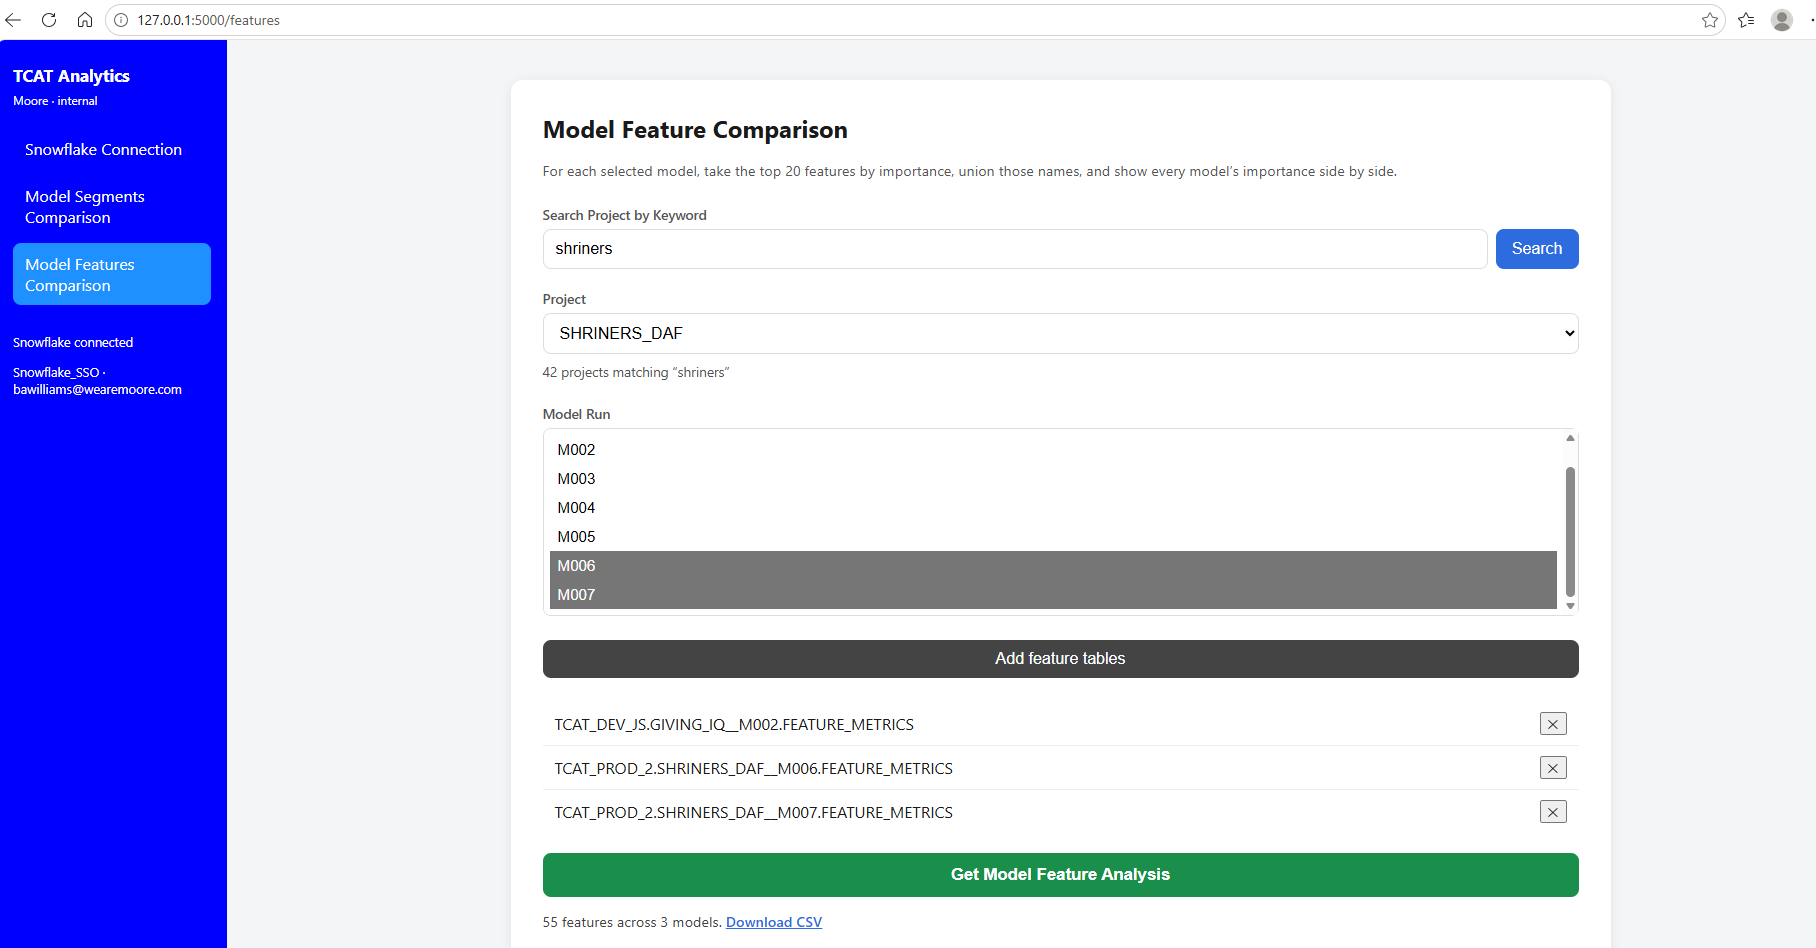
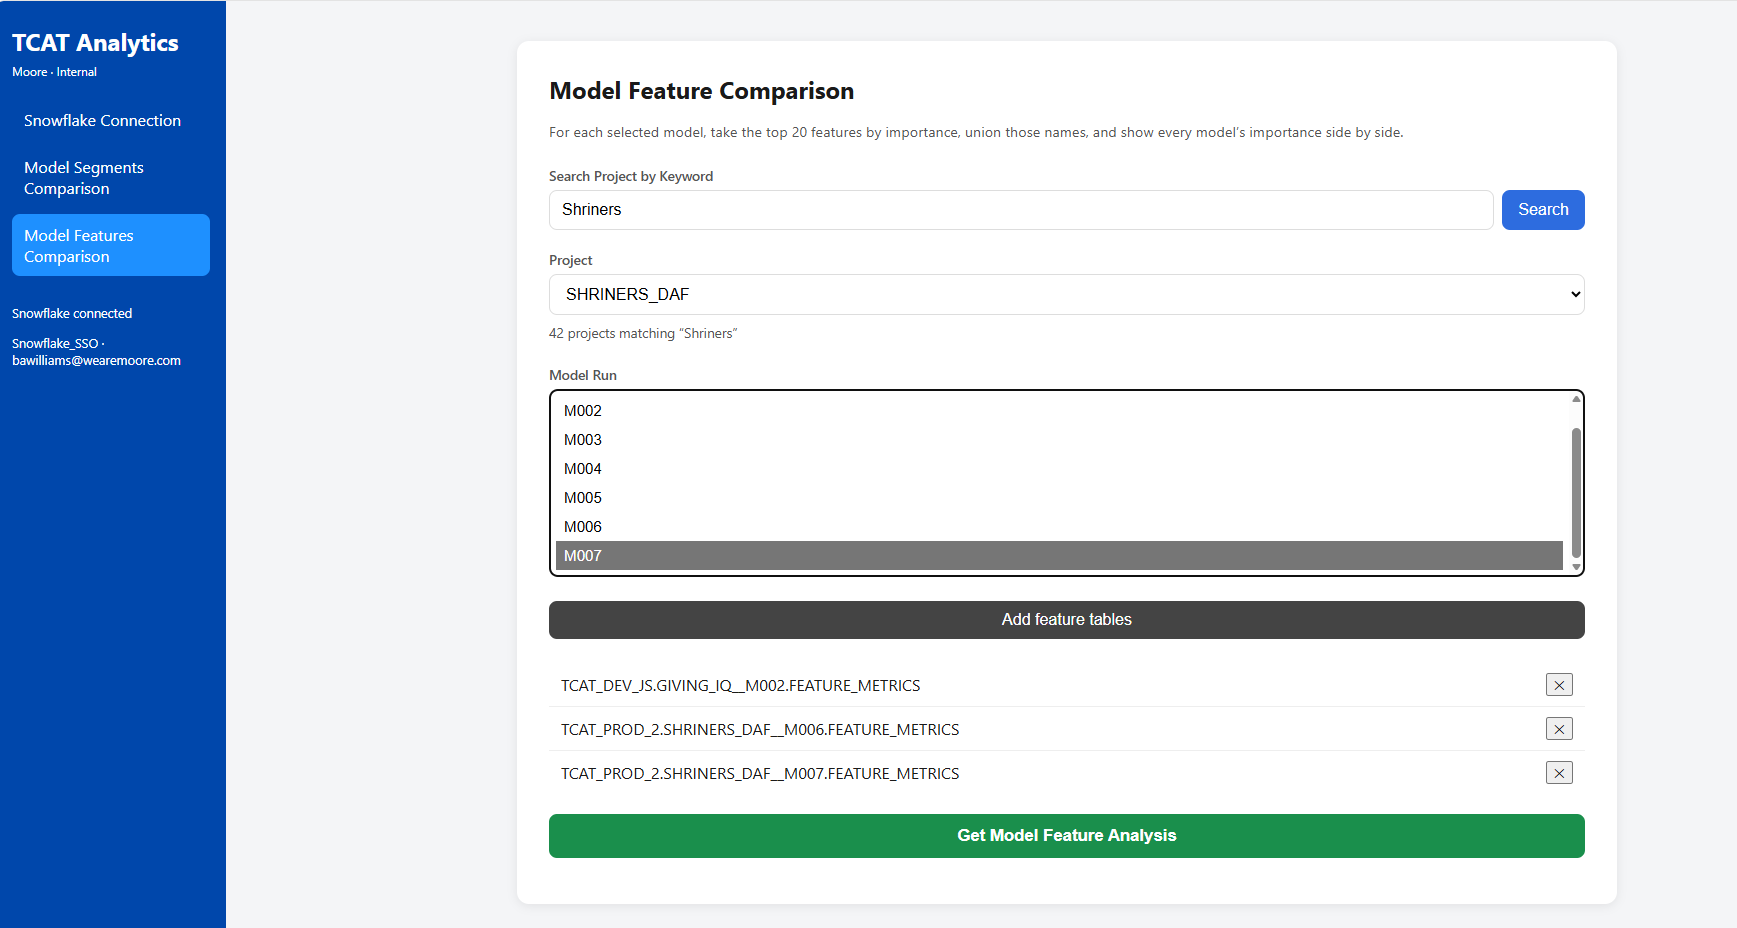
Updating ReadMe

diff --git a/templates/index.html b/templates/index.html
@@ -7,9 +7,9 @@
   <link rel="stylesheet" href="{{ url_for('static', filename='css/style.css') }}">
 </head>
 <body>
-  <aside class="sidebar">
-    <p class="brand">TCAT Analytics</p>
-    <p class="brand-kicker">Moore · internal</p>
+  <aside class="sidebar" >
+    <p class="brand" style="font-size: 24px;">TCAT Analytics</p>
+    <p class="brand-kicker">Moore · Internal</p>
     <nav aria-label="Primary">
       <a class="{% if active == 'connection' %}is-active{% endif %}" href="{{ url_for('connection') }}">Snowflake Connection</a>
       <a class="{% if active == 'comparison' %}is-active{% endif %}" href="{{ url_for('comparison') }}">Model Segments Comparison</a>

diff --git a/static/css/style.css b/static/css/style.css
@@ -287,7 +287,7 @@ body {
 .sidebar {
     width: 230px;
     flex: 0 0 230px;
-    background: #0000FF;
+    background: #0047AB;
     color: #fff;
     padding: 24px 16px;
     min-height: 100vh;
